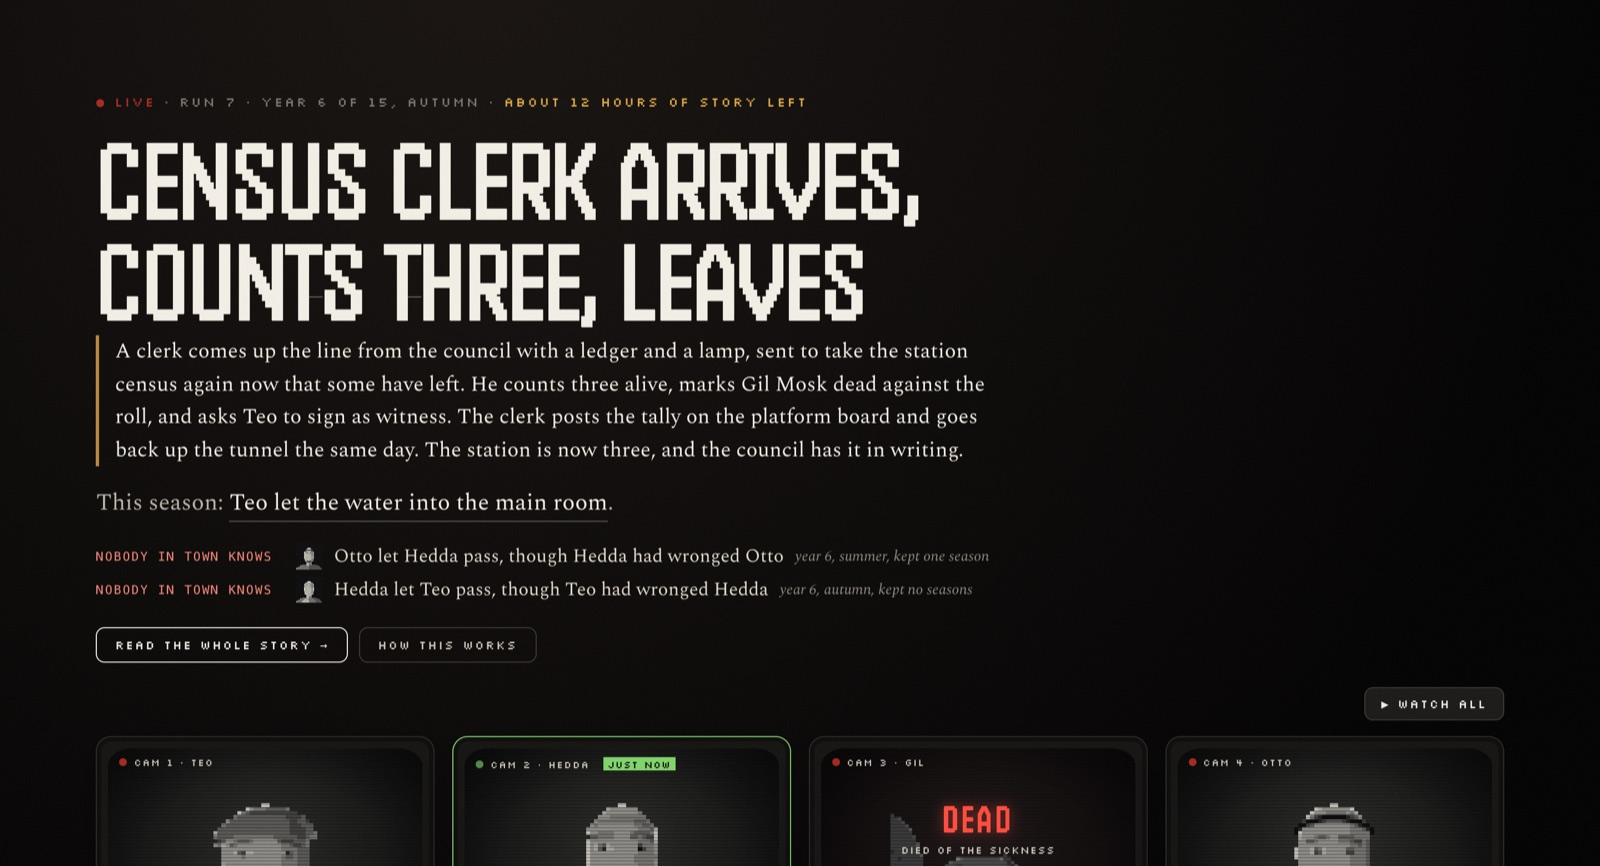
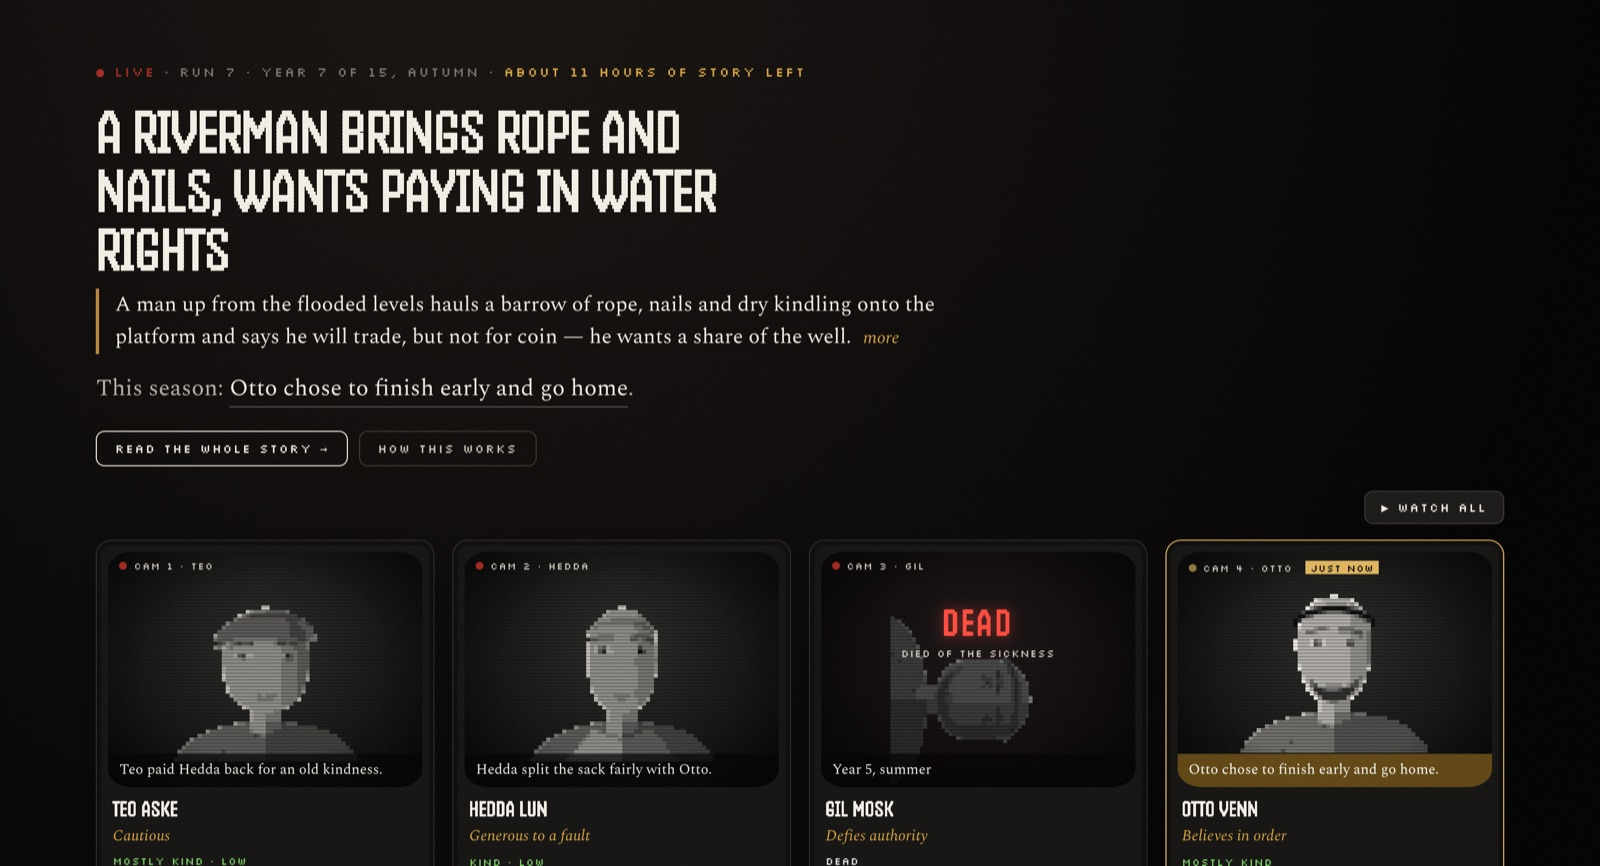
A lighter front page: short headlines, one sentence under them, the cameras sooner
The director is asked for a newspaper headline of six words at most and one or two short sentences, and a headline of
more than eight words is sent back once (a second try is kept whatever its length). On the page the headline is set
smaller, and smaller again when it runs long; what the world did is cut to its first sentence with the rest behind
"more"; what the town is waiting for and the secrets move below the four cameras, which now show without scrolling.

diff --git a/src/chronicle/director.ts b/src/chronicle/director.ts
@@ -56,8 +56,8 @@ export const DIRECTOR_SYSTEM = [
   "YOU MAY NOT: kill, injure, marry or move any of the four; make any of them do, say, think or feel anything, in any tense (not \"after she speaks\", not \"he refuses\"); give them a past the record does not have; invent a new named person; undo or change anything that has happened. Other townsfolk are unnamed (\"a family down the way\", \"whoever keeps the stores\"). Use this town's own places and trades, never ones it does not have (no pier in a mine, no harbour in a desert).",
   "",
   "ANSWER WITH JSON ONLY:",
-  "{\"headline\": \"one short line, under 12 words, plain\", \"text\": \"two or three plain sentences: what happens this season and what it means for the town\", \"supply\": number from -0.15 to 0.15 (what it does to the town's food stores; 0 if nothing), \"mood\": number from -0.1 to 0.1 (what it does to everyone's spirits), \"sick\": [ids of the four it makes sick, only if it is a sickness, at most one], \"favour\": [up to three choice ids from the list that this event makes likely this season], \"touch\": [{\"id\": one of the four, \"mood\": -0.15 to 0.15, \"why\": \"a few words\"}] (who it lands on hardest; may be empty), \"sets\": optional {\"what\": \"...\", \"in\": 1-4}, \"closes\": optional thread id, \"exposes\": optional secret id, \"kind\": the kind of turn you wrote}",
-  "Plain words: no poetry, no metaphors. The headline is what a person in the town would say happened.",
+  "{\"headline\": \"a newspaper headline of two to six words, plain\", \"text\": \"one or two short, plain sentences: what happens this season and what it means for the town\", \"supply\": number from -0.15 to 0.15 (what it does to the town's food stores; 0 if nothing), \"mood\": number from -0.1 to 0.1 (what it does to everyone's spirits), \"sick\": [ids of the four it makes sick, only if it is a sickness, at most one], \"favour\": [up to three choice ids from the list that this event makes likely this season], \"touch\": [{\"id\": one of the four, \"mood\": -0.15 to 0.15, \"why\": \"a few words\"}] (who it lands on hardest; may be empty), \"sets\": optional {\"what\": \"...\", \"in\": 1-4}, \"closes\": optional thread id, \"exposes\": optional secret id, \"kind\": the kind of turn you wrote}",
+  "Plain words: no poetry, no metaphors. The headline is what a person in the town would say happened, in six words at most: \"A riverman wants the well\", \"The council counts the stores\", \"Fever at the far end\".",
   "CHALLENGES. Some turns put a hard question to one of the four: the council asks them to sign something, a neighbour begs them for help, a debt is called in, the watch wants a name. The world asks; what they answer is theirs, in the season that follows. Name the choice it makes likely in \"favour\".",
   "",
   "SET-UPS AND PAY-OFFS. A good story plants things and pays them off. You may open ONE thread in a turn: something the town now knows is coming (\"the council will count the stores in two seasons\", \"the lender says the debt falls due at midsummer\"), with \"sets\": {\"what\": \"...\", \"in\": 1 to 4 seasons}. When a thread is DUE, this season's turn must pay it off: say what happened, and give its id in \"closes\". Never leave a due thread open. Keep at most two open.",
@@ -182,6 +182,7 @@ async function directOnce(cfg: LlmConfig, w: Chronicle, meter?: Meter, again = "
   const ids = new Set([...LIBRARY, ...(w.scenario.dilemmas ?? [])].filter((d) => !d.experiment).map((d) => d.id));
   const headline = String(j.headline ?? "").trim().replace(/\s+/g, " ").slice(0, 120); const text = String(j.text ?? "").trim().replace(/\s+/g, " ").slice(0, 600);
   if (!headline || !text) return no("no headline or text");
+  if (!again && headline.split(" ").length > 8) return no(`wrote a headline of ${headline.split(" ").length} words, where six at most were asked for`); /* a second try is kept whatever its length: a turn is not lost over a headline */
   // a turn that names one of the four as the subject of a verb is doing their deciding for them: keep the event, lose the claim
   const acting = actsForThem(w, `${headline}. ${text}`); if (acting) return no(`has one of the four act: “${acting}”`);
   const framed = framedFor(w, `${headline}. ${text}`); if (framed) return no(`blames ${framed} for something the record does not show they did`);

diff --git a/web/film.js b/web/film.js
@@ -213,6 +213,11 @@ function awayRecap(k, u) {
 
 // ---------------------------------------------------------------- the front page: the town now, and whoever you pick
 let who = (() => { const m = location.hash.match(/who=([\w-]+)/); return m && R.byId[m[1]] != null ? R.byId[m[1]] : null; })();
+/** a paragraph cut to its first sentence under a headline, the rest a click away: the top of the page is not a wall of text */
+function dek(text, pre = "") {
+  const parts = String(text || "").trim().split(/(?<=[.!?])\s+(?=[A-Z“"])/); const first = parts.shift() || "";
+  return parts.length ? `<details class="turn"><summary>${esc(pre)}${esc(first)} <small>more</small></summary>${esc(parts.join(" "))}</details>` : `<p class="turn">${esc(pre)}${esc(first)}</p>`;
+}
 function nowPage() {
   const u = R.upto(now()); const k = Math.max(0, u.k); const live = !L.ended && !L.final; const fr = R.frameAt(k);
   const e = R.epochAt(k); const since = e ? k - (e.at - 1) + 1 : 0;
@@ -225,13 +230,13 @@ function nowPage() {
   const actHead = !turn && !e && top && R.weight(top.a) >= 5;
   const wall = `<div class="wall-h"><button class="watchall" data-watch>&#9654; Watch all</button></div>${wallHtml(u, k, fr)}${who != null ? `<p class="wall-x"><button data-who="">&larr; back to the whole town</button></p>` : ""}`;
   const head = `<header class="nowh"><p class="kicker">${live ? `<span class="rec">&#9679; LIVE</span> &middot; ` : ""}Run ${L.cycle} &middot; ${esc(labelOf(k).replace(/^Year (\d+)/, `Year $1 of ${Math.round(L.ticks / 4)}`))}${live ? ` &middot; <span class="left" title="A season every ${Math.round(L.seasonMs / 60000)} minutes, ${Math.round(L.ticks / 4)} years in all: about ${Math.round(L.ticks * L.seasonMs / 3.6e6)} hours from start to end. It ends sooner if all four die.">${hoursLeft((L.ticks - L.tick) * L.seasonMs + Math.max(0, L.seasonStartedAt + L.seasonMs - now()))} of story left</span>` : ""}</p>
-    ${(() => { const h = turn ? esc(turn.headline) : e ? esc(e.headline) : actHead ? `<a href="#s${top.k}-${top.j}" data-go="s${top.k}-${top.j}">${esc(said(top.a))}.</a>` : k === 0 && !hs.length ? "A new story begins." : "A quiet season in town."; return `<h1${actHead && said(top.a).length > 60 ? ' class="long"' : ""}>${h}</h1>`; })()}
-    ${!turn && !e && k === 0 && !hs.length && L.premise ? `<p class="turn">${esc(L.premise)}</p>` : ""}
-    ${turn ? `<p class="turn">${tk === k ? "" : "Last season: "}${esc(turn.text)}</p>` : ""}
+    ${(() => { const plain = turn ? turn.headline : e ? e.headline : actHead ? `${said(top.a)}.` : k === 0 && !hs.length ? "A new story begins." : "A quiet season in town.";
+      const h = actHead ? `<a href="#s${top.k}-${top.j}" data-go="s${top.k}-${top.j}">${esc(plain)}</a>` : esc(plain); return `<h1${String(plain).length > 34 ? ' class="long"' : ""}>${h}</h1>`; })()}
+    ${!turn && !e && k === 0 && !hs.length && L.premise ? dek(L.premise) : ""}
+    ${turn ? dek(turn.text, tk === k ? "" : "Last season: ") : ""}
     <p class="when">${e && turn ? `${esc(e.headline)} ` : ""}${e ? `${since === 1 ? "It began this season." : `Its ${["", "first", "second", "third", "fourth", "fifth", "sixth", "seventh", "eighth"][since] || since + "th"} season of ${words(e.seasons)}.`} ` : ""}${top && !actHead ? `${hk === k ? "This season" : "Last season"}: <a href="#s${top.k}-${top.j}" data-go="s${top.k}-${top.j}">${esc(said(top.a))}</a>.` : k === 0 ? "The first season is under way." : ""}</p>
-    ${suspense(k, u, live, top)}
     <p class="toplinks"><a class="story-btn" href="${BASE ? BASE + "/story" : "/story"}">Read the whole story &rarr;</a><button class="story-btn ghost" data-intro>How this works</button></p>
-    ${wall}</header>`;
+    ${wall}${(() => { const s = suspense(k, u, live, top); return s ? `<div class="sp-below">${s}</div>` : ""; })()}</header>`;
   let body = "";
   if (who == null) {
     const n = nextScene(k, u); const end = L.seasonStartedAt + L.seasonMs;

diff --git a/web/film.css b/web/film.css
@@ -29,11 +29,11 @@ header.site nav a:hover,header.site nav a.on{color:var(--ink)}
 
 
 /* ---------- the town now ---------- */
-.nowh{padding:16svh 6vw 4svh;background:radial-gradient(ellipse at 30% 0%,#17120f,#000 70%)}
-.nowh h1{margin:0 0 16px;max-width:20ch;font:700 clamp(46px,7vw,110px)/.9 var(--px);text-transform:uppercase}
+.nowh{padding:13svh 6vw 4svh;background:radial-gradient(ellipse at 30% 0%,#17120f,#000 70%)}
+.nowh h1{margin:0 0 16px;max-width:20ch;font:700 clamp(42px,5.6vw,92px)/.9 var(--px);text-transform:uppercase}
 .nowh h1 a{color:inherit;text-decoration:none}.nowh h1 a:hover{text-decoration:underline;text-decoration-thickness:3px;text-underline-offset:8px}
-.nowh h1.long{max-width:24ch;font-size:clamp(38px,5vw,76px)}
-.nowh .when{max-width:820px;margin:0 0 34px;font-size:21px;line-height:1.5;color:var(--ink2)}
+.nowh h1.long{max-width:26ch;font-size:clamp(34px,3.9vw,62px);line-height:.95}
+.nowh .when{max-width:820px;margin:0 0 22px;font-size:21px;line-height:1.5;color:var(--ink2)}
 .nowh .when a{color:var(--ink);text-decoration:none;border-bottom:1px solid #555}
 .pick{display:flex;flex-wrap:wrap;gap:10px}
 .pick button{display:grid;grid-template-columns:52px auto;grid-template-rows:auto auto;column-gap:12px;align-items:center;padding:8px 16px 8px 8px;background:#0a0a0a;border:1px solid #222;color:var(--ink);font:inherit;text-align:left;cursor:pointer;transition:border-color .2s,background .2s}
@@ -212,7 +212,7 @@ a.epc:hover{border-color:var(--tone);transform:translateY(-3px)}
 
 /* ---------- small screens: the same film, held upright ---------- */
 @media (max-width:760px){
-  .nowh{padding:22svh 5vw 3svh}.nowh h1{font-size:clamp(40px,12vw,64px)}.nowh .when{font-size:18px}
+  .nowh{padding:22svh 5vw 3svh}.nowh h1{font-size:clamp(40px,12vw,64px)}.nowh h1.long{font-size:clamp(30px,8.5vw,44px)}.nowh .when{font-size:18px}
   .pick{gap:6px}.pick button{grid-template-columns:40px auto;padding:6px 10px 6px 6px;column-gap:8px}.pick button canvas,.pick .all{width:40px;height:40px}.pick b{font-size:19px}.pick small{font-size:8px}
   .feed{padding:3svh 4vw 10svh}
   .dec,.dec.big{padding:14px 14px 16px}
@@ -681,7 +681,10 @@ details.fx>summary .fx-l b::after{content:"  +";color:#8f897e}details.fx[open]>s
 .dl-death{position:relative;display:inline;padding:1px 4px;background:rgba(233,227,211,.12);color:#fff;font-weight:600;cursor:help;outline:none}
 .dl-death:hover>.hc,.dl-death:focus>.hc{display:block}
 /* what the world did this season that nobody chose */
-.nowh .turn{max-width:820px;margin:-14px 0 18px;font-size:19px;line-height:1.55;color:var(--ink);border-left:3px solid #b8863b;padding-left:14px}
+.nowh .turn{max-width:820px;margin:-8px 0 16px;font-size:19px;line-height:1.55;color:var(--ink);border-left:3px solid #b8863b;padding-left:14px}
+details.turn summary{cursor:pointer;list-style:none}details.turn summary::-webkit-details-marker{display:none}
+details.turn summary small{margin-left:6px;font-style:italic;color:#d9a441}details.turn[open] summary small{display:none}
+.sp-below{margin:26px 0 0;max-width:1100px}
 .evcard.t-world{--tone:#d9a441}
 /* the one trait that marks each of the company out */
 .plate .ptrait{display:block;margin:2px 0 4px;font:italic 14px/1.3 "Spectral",Georgia,serif;color:#d9a441}

diff --git a/README.md b/README.md
@@ -16,7 +16,7 @@
 
 <br>
 
-<a href="https://afterparty.theform-monorepo.workers.dev"><img src="docs/assets/front.jpg" alt="The front page of the live site: LIVE, run 7, year 6 of 15, and this season's headline, 'Census clerk arrives, counts three, leaves', with the secrets nobody in town knows yet" width="100%"></a>
+<a href="https://afterparty.theform-monorepo.workers.dev"><img src="docs/assets/front.jpg" alt="The front page of the live site: LIVE, run 7, year 7 of 15, this season's headline and what the world did, then the four camera screens" width="100%"></a>
 
 ## What is this?
 
